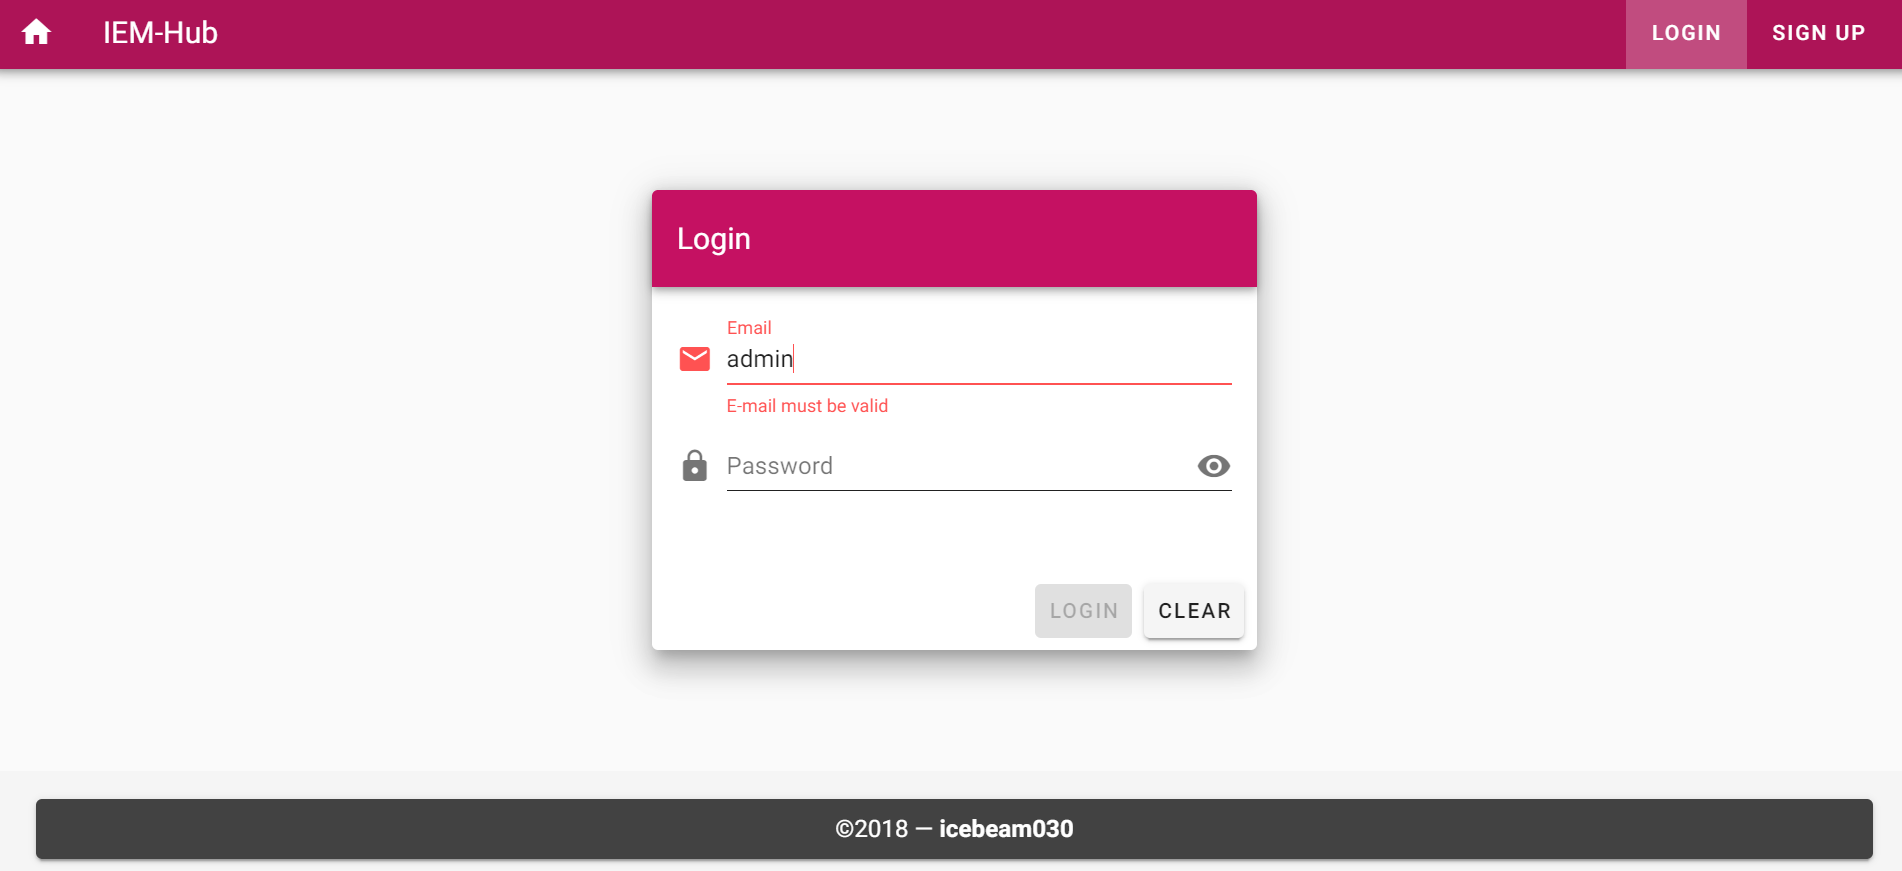
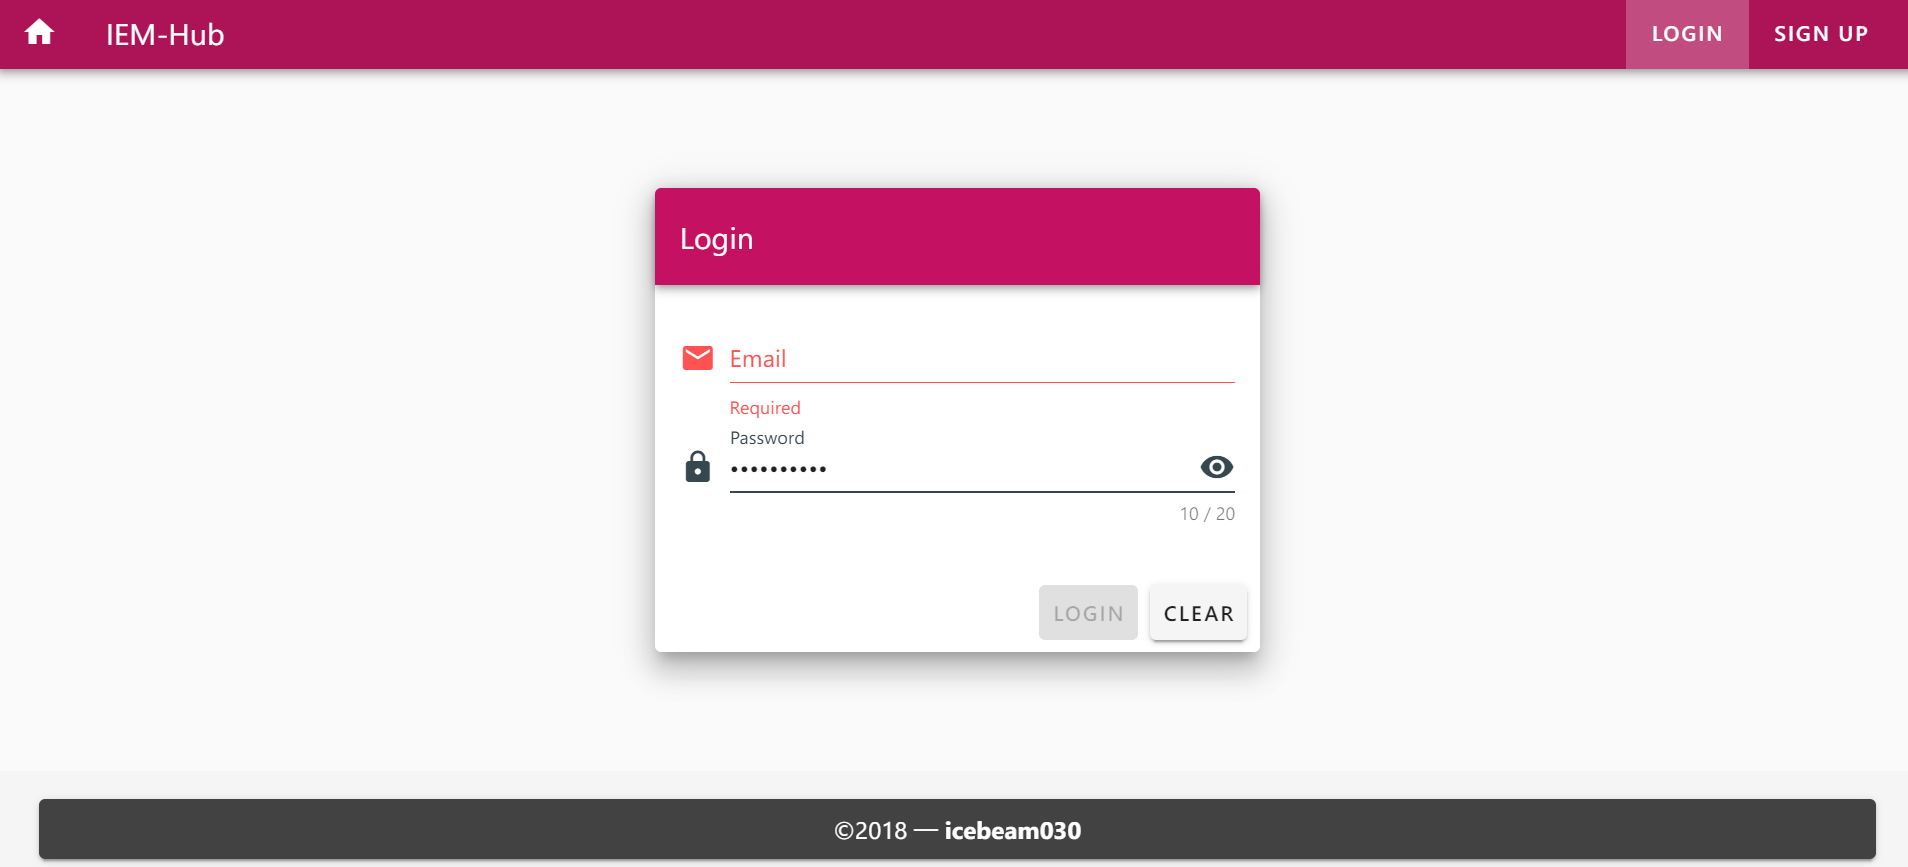
Many UX and colour improvements

diff --git a/client/src/components/Register.vue b/client/src/components/Register.vue
@@ -12,6 +12,7 @@
               <v-text-field
                 v-model="email"
                 label="Email"
+                color="blue-grey darken-3"
                 prepend-icon="email"
                 :rules="emailRules"
                 required
@@ -20,8 +21,10 @@
               <v-text-field
                 v-model="password"
                 label="Password"
+                color="blue-grey darken-3"
                 prepend-icon="lock"
-                hint="8 to 20 characters in length"
+                counter
+                maxlength="20"
                 :type="showPassword ? 'text' : 'password'"
                 :rules="passwordRules"
                 :append-icon="showPassword ? 'visibility_off' : 'visibility'"
@@ -33,7 +36,10 @@
                 v-model="confirmPassword"
                 label="Confirm Password"
                 type="password"
+                color="blue-grey darken-3"
                 prepend-icon="lock"
+                counter
+                maxlength="20"
                 :error-messages="isPasswordMatched()"
                 required
               >
@@ -79,13 +85,14 @@ export default {
       error: null,
       valid: false,
       emailRules: [
-        (v) => !!v || 'E-mail is required',
-        (v) => /^\w+([\.-]?\w+)*@\w+([\.-]?\w+)*(\.\w{2,3})+$/.test(v) || 'E-mail must be valid'
+        (v) => !!v || 'Required',
+        (v) => /^\w+([\.-]?\w+)*@\w+([\.-]?\w+)*(\.\w{2,3})+$/.test(v) || 'Invalid email'
       ],
       passwordRules: [
-        (v) => !!v || 'Password is required',
-        (v) => v && v.length >= 8 && v.length <= 20 || 'Password should be 8 to 20 characters long',
-        (v) => v && /^(?=.*[a-z])(?=.*[A-Z])(?=.*[0-9])/.test(v) || 'Your password should contain:<br>1. At least 1 lowercase letter<br>2. At least 1 uppercase letter<br>3. At least 1 number'
+        (v) => !!v || 'Required',
+        (v) => v && v.length >= 8 || 'At least 8 characters',
+        (v) => v && /^(?=.*[a-z])(?=.*[A-Z])(?=.*[0-9])/.test(v) ||
+          'At least:<br>1 lowercase letter<br>1 uppercase letter<br>1 number'
       ]
     }
   },

diff --git a/client/src/components/CreateIEM.vue b/client/src/components/CreateIEM.vue
@@ -16,22 +16,25 @@
               <v-text-field
                 v-model="iem.brand"
                 label="Brand"
+                color="blue-grey darken-3"
                 prepend-icon="list"
-                :rules="[(v) => !!v || 'Brand is required']"
+                :rules="[(v) => !!v || 'Required']"
                 required
               >
               </v-text-field>
               <v-text-field
                 v-model="iem.name"
                 label="Name"
+                color="blue-grey darken-3"
                 prepend-icon="info"
-                :rules="[(v) => !!v || 'Name is required']"
+                :rules="[(v) => !!v || 'Required']"
                 required
               >
               </v-text-field>
               <v-text-field
                 v-model="iem.price"
                 label="Price"
+                color="blue-grey darken-3"
                 prepend-icon="attach_money"
                 :rules="priceRules"
                 required
@@ -40,8 +43,9 @@
               <v-text-field
                 v-model="iem.imageUrl"
                 label="Image URL"
+                color="blue-grey darken-3"
                 prepend-icon="link"
-                :rules="[(v) => !!v || 'Image URL is required']"
+                :rules="[(v) => !!v || 'Required']"
                 required
               >
               </v-text-field>
@@ -81,7 +85,7 @@ export default {
       error: null,
       valid: false,
       priceRules: [
-        (v) => !!v || 'Price is required',
+        (v) => !!v || 'Required',
         (v) => v && parseInt(v) >= 0 || 'Price should be a positive integer'
       ]
     }

diff --git a/client/src/components/EditIEM.vue b/client/src/components/EditIEM.vue
@@ -16,22 +16,25 @@
               <v-text-field
                 v-model="iem.brand"
                 label="Brand"
+                color="blue-grey darken-3"
                 prepend-icon="list"
-                :rules="[(v) => !!v || 'Brand is required']"
+                :rules="[(v) => !!v || 'Required']"
                 required
               >
               </v-text-field>
               <v-text-field
                 v-model="iem.name"
                 label="Name"
+                color="blue-grey darken-3"
                 prepend-icon="info"
-                :rules="[(v) => !!v || 'Name is required']"
+                :rules="[(v) => !!v || 'Required']"
                 required
               >
               </v-text-field>
               <v-text-field
                 v-model="iem.price"
                 label="Price"
+                color="blue-grey darken-3"
                 prepend-icon="attach_money"
                 :rules="priceRules"
                 required
@@ -40,8 +43,9 @@
               <v-text-field
                 v-model="iem.imageUrl"
                 label="Image URL"
+                color="blue-grey darken-3"
                 prepend-icon="link"
-                :rules="[(v) => !!v || 'Image URL is required']"
+                :rules="[(v) => !!v || 'Required']"
                 required
               >
               </v-text-field>
@@ -81,7 +85,7 @@ export default {
       error: null,
       valid: false,
       priceRules: [
-        (v) => !!v || 'Price is required',
+        (v) => !!v || 'Required',
         (v) => v && parseInt(v) >= 0 || 'Price should be a positive integer'
       ]
     }

diff --git a/client/src/components/IEMCard.vue b/client/src/components/IEMCard.vue
@@ -5,12 +5,10 @@
       aspect-ratio="2.75"
     ></v-img>
 
-    <v-card-text>
-      <div class="text--primary">
-        <div class="headline">{{ iem.brand }}  {{ iem.name }}</div>
-        <div class="subtitle-1">$ {{ iem.price }}</div>
-        <div>Average Rating: {{ averageRating }}</div>
-      </div>
+    <v-card-text class="text--primary">
+      <div class="headline">{{ iem.brand }}  {{ iem.name }}</div>
+      <div class="subtitle-1">AUD ${{ iem.price }}</div>
+      <div>Average rating: {{ averageRating }}</div>
     </v-card-text>
 
     <v-card-actions>
@@ -22,8 +20,8 @@
       >
       </v-rating>
       <v-spacer></v-spacer>
-      <v-btn dark small color="pink accent-4" @click="rateIEM">
-        Rate it!
+      <v-btn dark small color="pink lighten-1" @click="rateIEM">
+        Rate this IEM
       </v-btn>
     </v-card-actions>
 
@@ -31,14 +29,14 @@
       <v-spacer></v-spacer>
       <v-btn
         text
-        color="pink accent-4"
+        color="pink lighten-1"
         :to="{ name: 'iem-delete', params: { iemId: iem.id }}"
       >
         <v-icon>delete</v-icon>
       </v-btn>
       <v-btn
         text
-        color="pink accent-4"
+        color="pink lighten-1"
         :to="{ name: 'iem-edit', params: { iemId: iem.id }}"
       >
         <v-icon>edit</v-icon>
@@ -65,7 +63,7 @@ export default {
   data () {
     return {
       rating: null,
-      averageRating: 'loading...',
+      averageRating: 'Loading...',
       error: null,
       successMessage: null
     }

diff --git a/client/src/components/Login.vue b/client/src/components/Login.vue
@@ -12,6 +12,7 @@
               <v-text-field
                 v-model="email"
                 label="Email"
+                color="blue-grey darken-3"
                 prepend-icon="email"
                 :rules="emailRules"
                 required
@@ -20,8 +21,10 @@
               <v-text-field
                 v-model="password"
                 label="Password"
+                color="blue-grey darken-3"
                 prepend-icon="lock"
-                hint="8 to 20 characters in length"
+                counter
+                maxlength="20"
                 :type="showPassword ? 'text' : 'password'"
                 :rules="passwordRules"
                 :append-icon="showPassword ? 'visibility_off' : 'visibility'"
@@ -69,12 +72,12 @@ export default {
       error: null,
       valid: false,
       emailRules: [
-        (v) => !!v || 'E-mail is required',
-        (v) => /^\w+([\.-]?\w+)*@\w+([\.-]?\w+)*(\.\w{2,3})+$/.test(v) || 'E-mail must be valid'
+        (v) => !!v || 'Required',
+        (v) => /^\w+([\.-]?\w+)*@\w+([\.-]?\w+)*(\.\w{2,3})+$/.test(v) || 'Invalid email'
       ],
       passwordRules: [
-        (v) => !!v || 'Password is required',
-        (v) => v && v.length >= 8 && v.length <= 20 || 'Password should be 8 to 20 characters long'
+        (v) => !!v || 'Required',
+        (v) => v && v.length >= 8 || 'At least 8 characters'
       ]
     }
   },

diff --git a/client/src/components/IEMBrowser.vue b/client/src/components/IEMBrowser.vue
@@ -1,7 +1,7 @@
 <template>
   <v-container class="grid-list">
     <v-card class="elevation-3">
-      <v-toolbar dark dense color="pink accent-4">
+      <v-toolbar dark dense color="blue-grey darken-4">
         <v-icon class="mr-2">list</v-icon>
         <v-toolbar-title>Your collection</v-toolbar-title>
         <v-spacer></v-spacer>

diff --git a/client/src/App.vue b/client/src/App.vue
@@ -10,7 +10,7 @@
       <v-text-field
         v-if="$store.state.isUserLoggedIn"
         v-model="search"
-        label="Search"
+        placeholder="Search"
         class="mx-6"
         flat
         clearable
